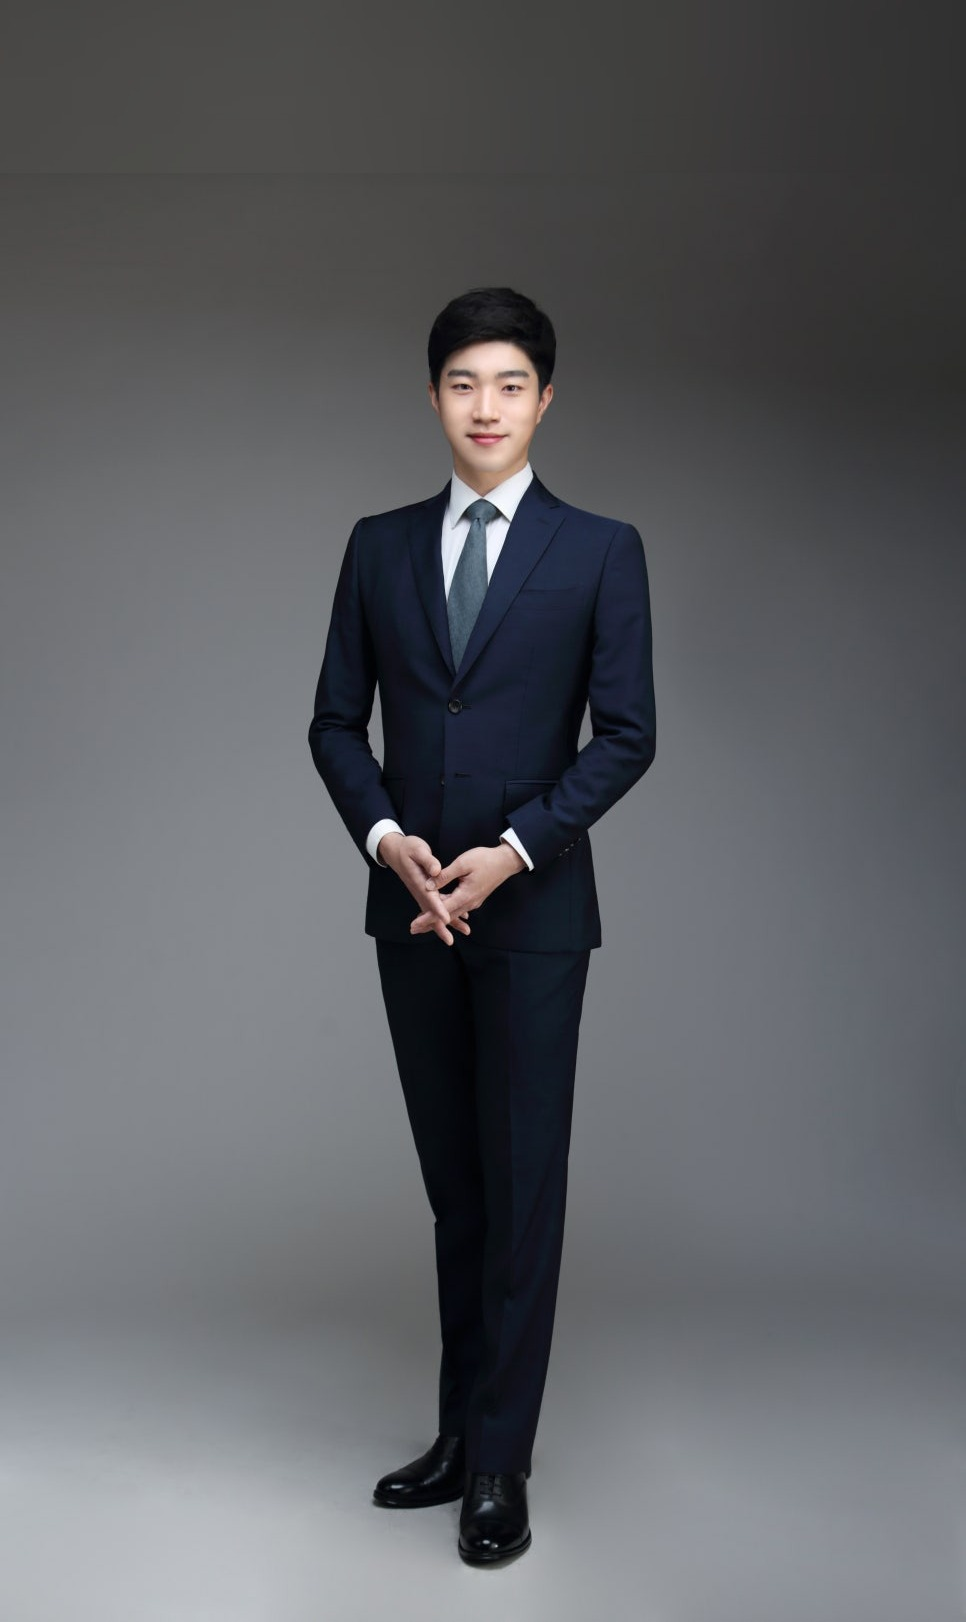
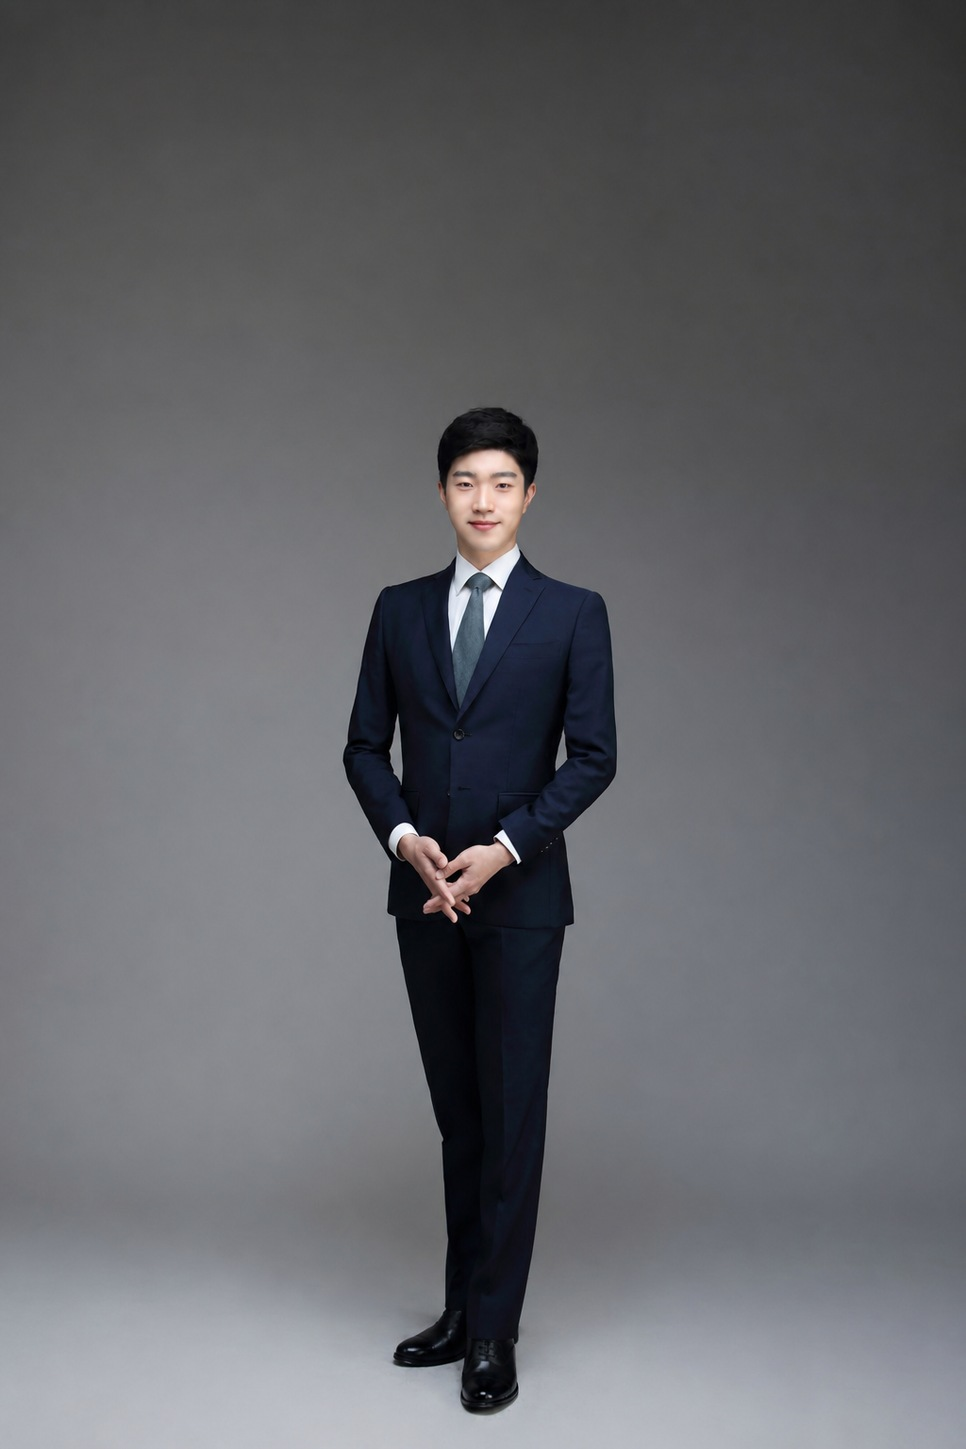
사회자 카드 뱃지 얼굴 가림 수정: 모바일 전용 헤드룸 이미지로 재작업(AI 아웃페인팅), 데스크탑은 원본 유지

diff --git a/client/src/components/sections/McSection.tsx b/client/src/components/sections/McSection.tsx
@@ -735,11 +735,16 @@ export default function McSection() {
                   {/* 이미지 클립 컨테이너 */}
                   <div className="absolute inset-0 overflow-hidden rounded-t-sm">
                     {mc.image ? (
-                      <img
-                        src={(mc as any).cardImage || mc.image}
-                        alt={mc.name}
-                        className="w-full h-full object-cover object-top transition-transform duration-700 group-hover:scale-105"
-                      />
+                      <picture>
+                        {(mc as any).cardImage && (
+                          <source media="(max-width: 639px)" srcSet={(mc as any).cardImage} />
+                        )}
+                        <img
+                          src={mc.image}
+                          alt={mc.name}
+                          className="w-full h-full object-cover object-top transition-transform duration-700 group-hover:scale-105"
+                        />
+                      </picture>
                     ) : (
                       <div
                         className="w-full h-full flex flex-col items-center justify-center"
